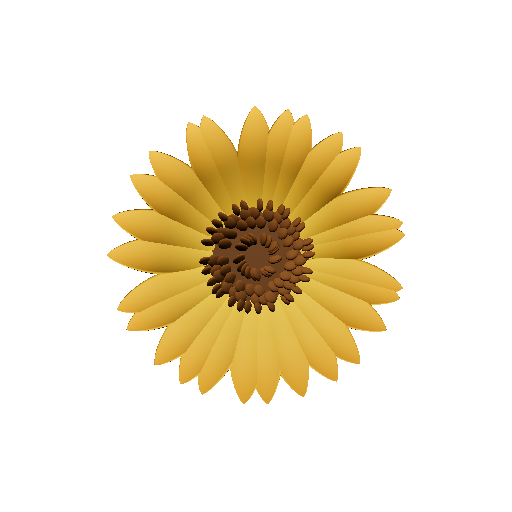
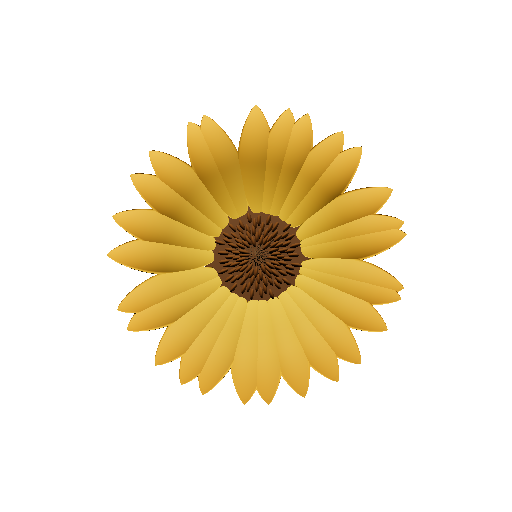
feat: Improve Nodetree UI

diff --git a/src/app/core/rendering/flower-tree.ts b/src/app/core/rendering/flower-tree.ts
@@ -56,7 +56,7 @@ export interface FlowerTree {
   edges: FlowerTreeEdge[];
 }
 
-const MAX_GENERATED_NODES = 2000;
+const MAX_GENERATED_NODES = 1000;
 const MAX_EXPANSION_DEPTH = 24;
 
 /**